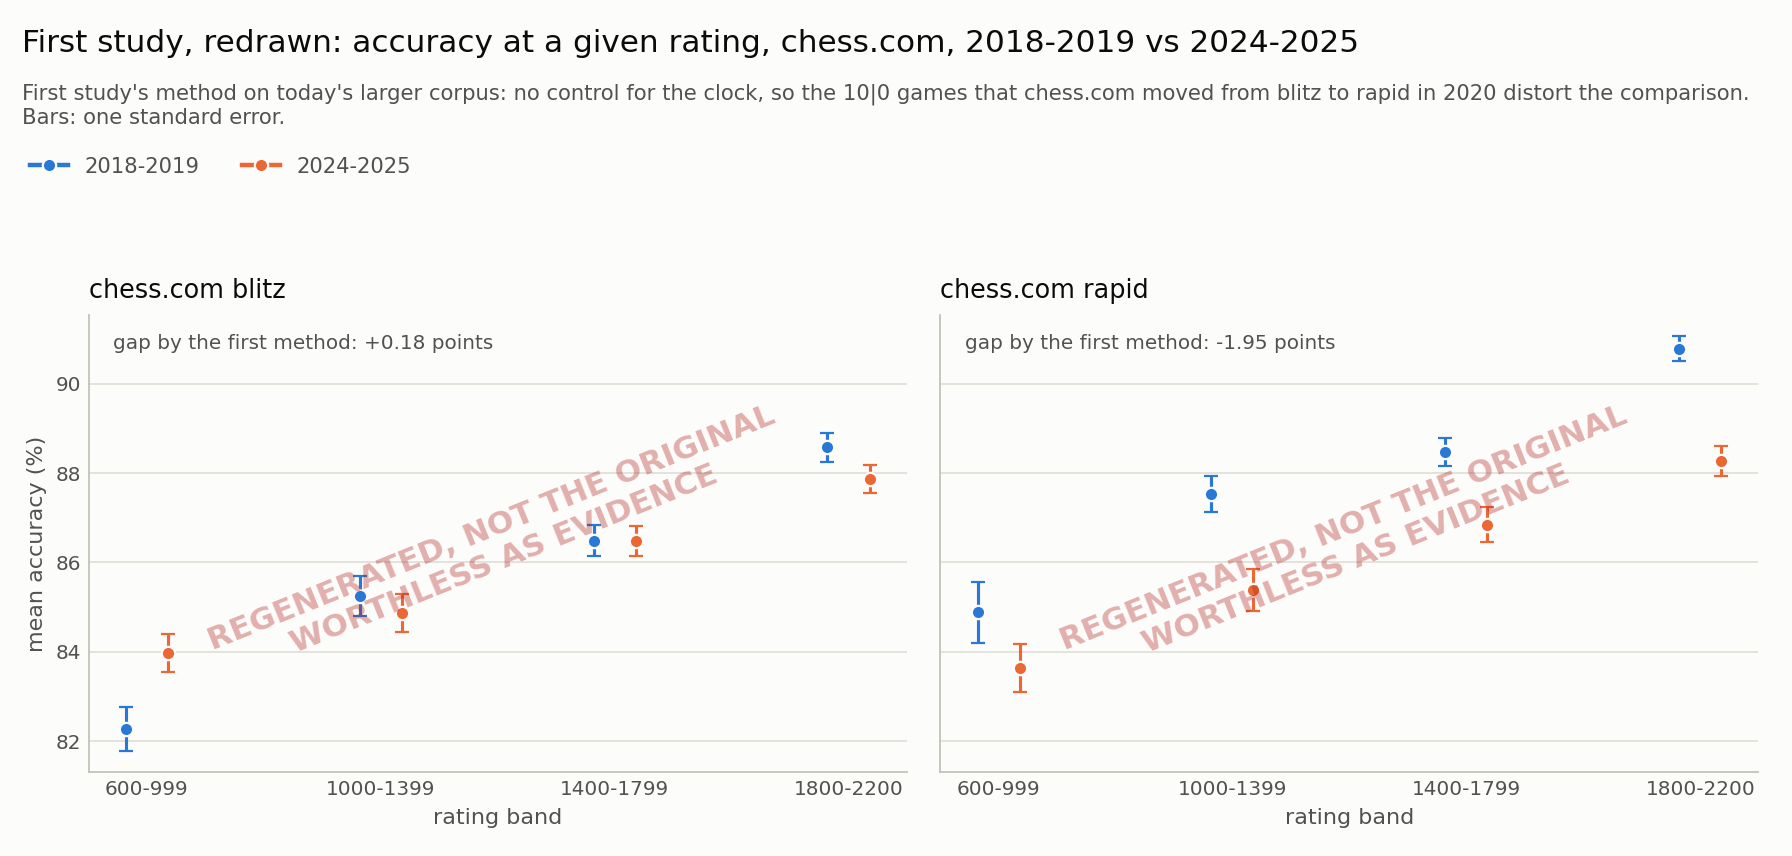
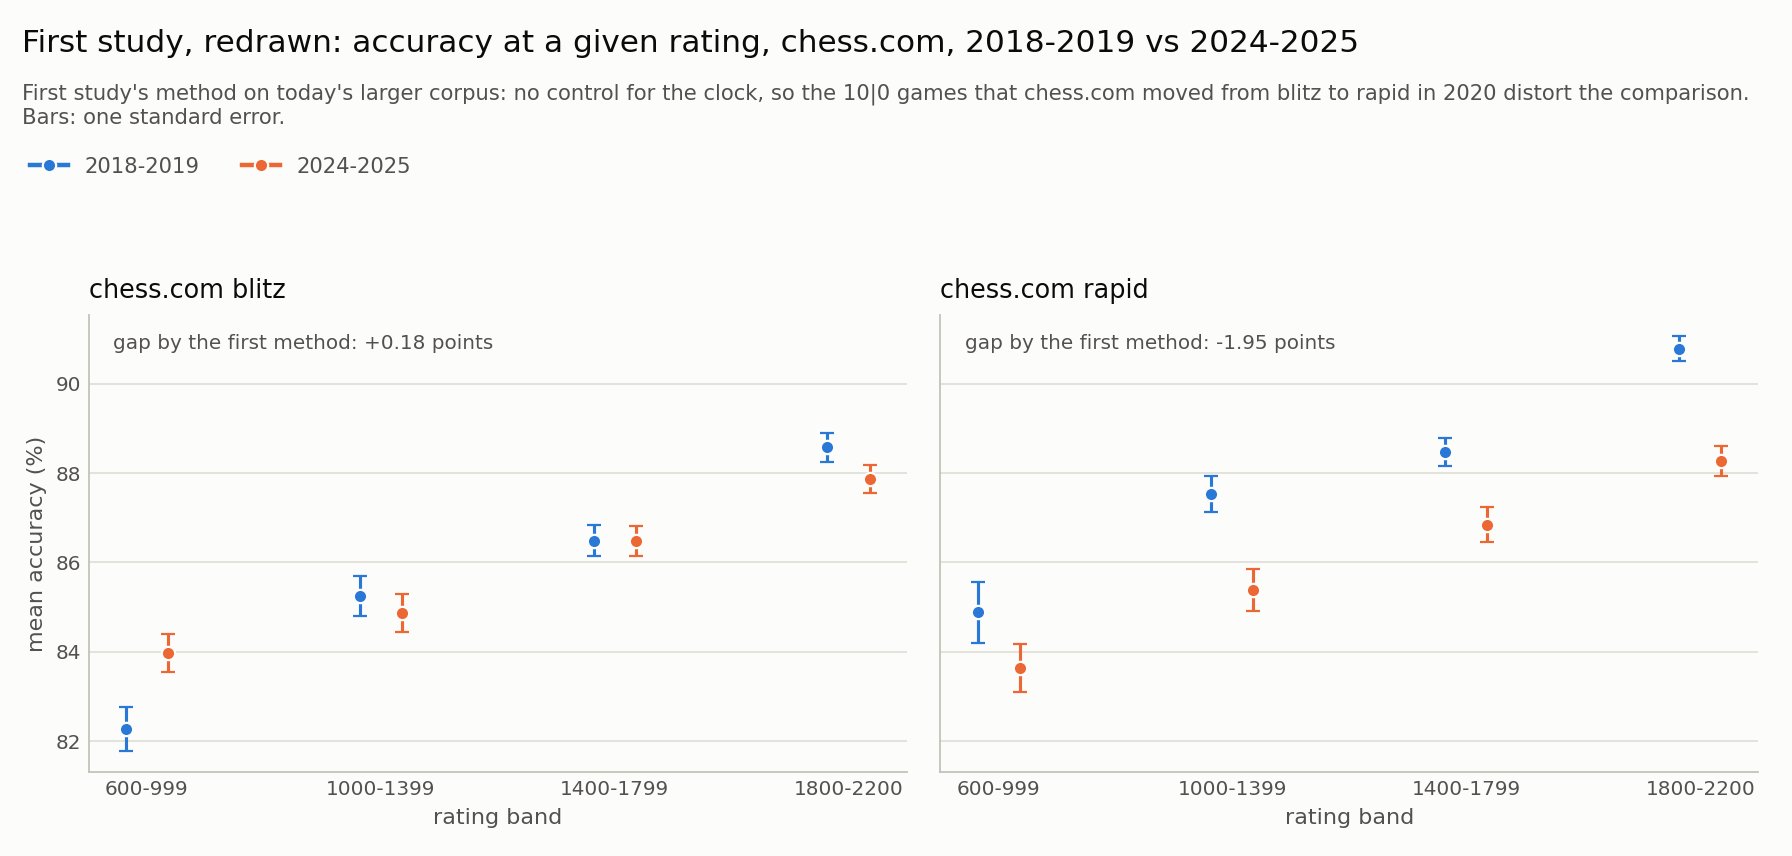
Regenerate the findings and the first-study figure without the stamp

Changed region(s): [[0.0938, 0.486, 0.4375, 0.7593], [0.5938, 0.486, 0.9062, 0.7593]]

diff --git a/reports/findings.md b/reports/findings.md
@@ -512,7 +512,9 @@ Where both numbers exist (n = 1185), the recomputed accuracy tracks chess.com's 
 The regression alone cannot fully repair the comparison, because the two periods barely overlap in clock (long games before, 10|0 after) and it has to extrapolate across the gap; only the like-for-like comparison is clean. It is also a sample of different people: those who followed 10|0 into rapid are not those who played 15-minute games. Where the gap vanishes in the like-for-like row, the reclassification explains it and rating drift does not.
 
 
-**The figure.** The first report's chart was never saved to the repository, so it cannot be recovered. The one below is **redrawn** with the first study's method on today's corpus. It is **not the original, and it is worthless as evidence**: it shows exactly the comparison that was flawed, which is why it is stamped on the chart.
+**The figure.** The first report's chart was never saved to the repository, so it cannot be recovered. The one below is redrawn with the first study's method on today's corpus. It is not the original, and it shows exactly the comparison that was flawed.
+
+**Regenerated, not the original: worthless as evidence.**
 
 ![the first study, redrawn](figures/first_study_redrawn.png)
 
